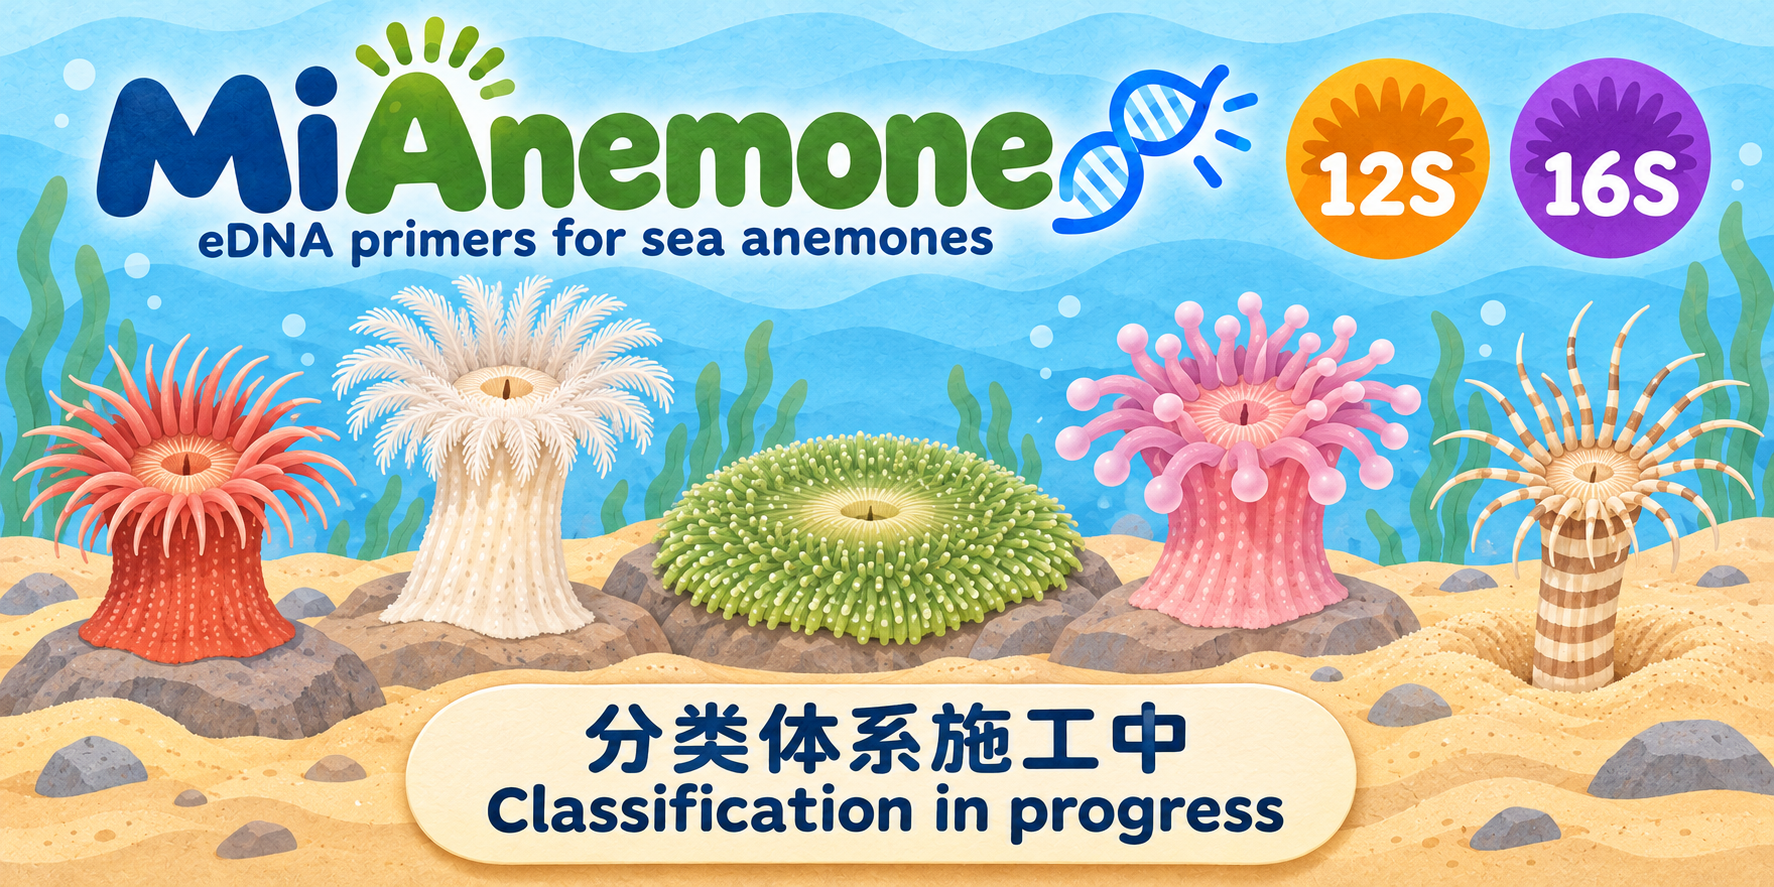
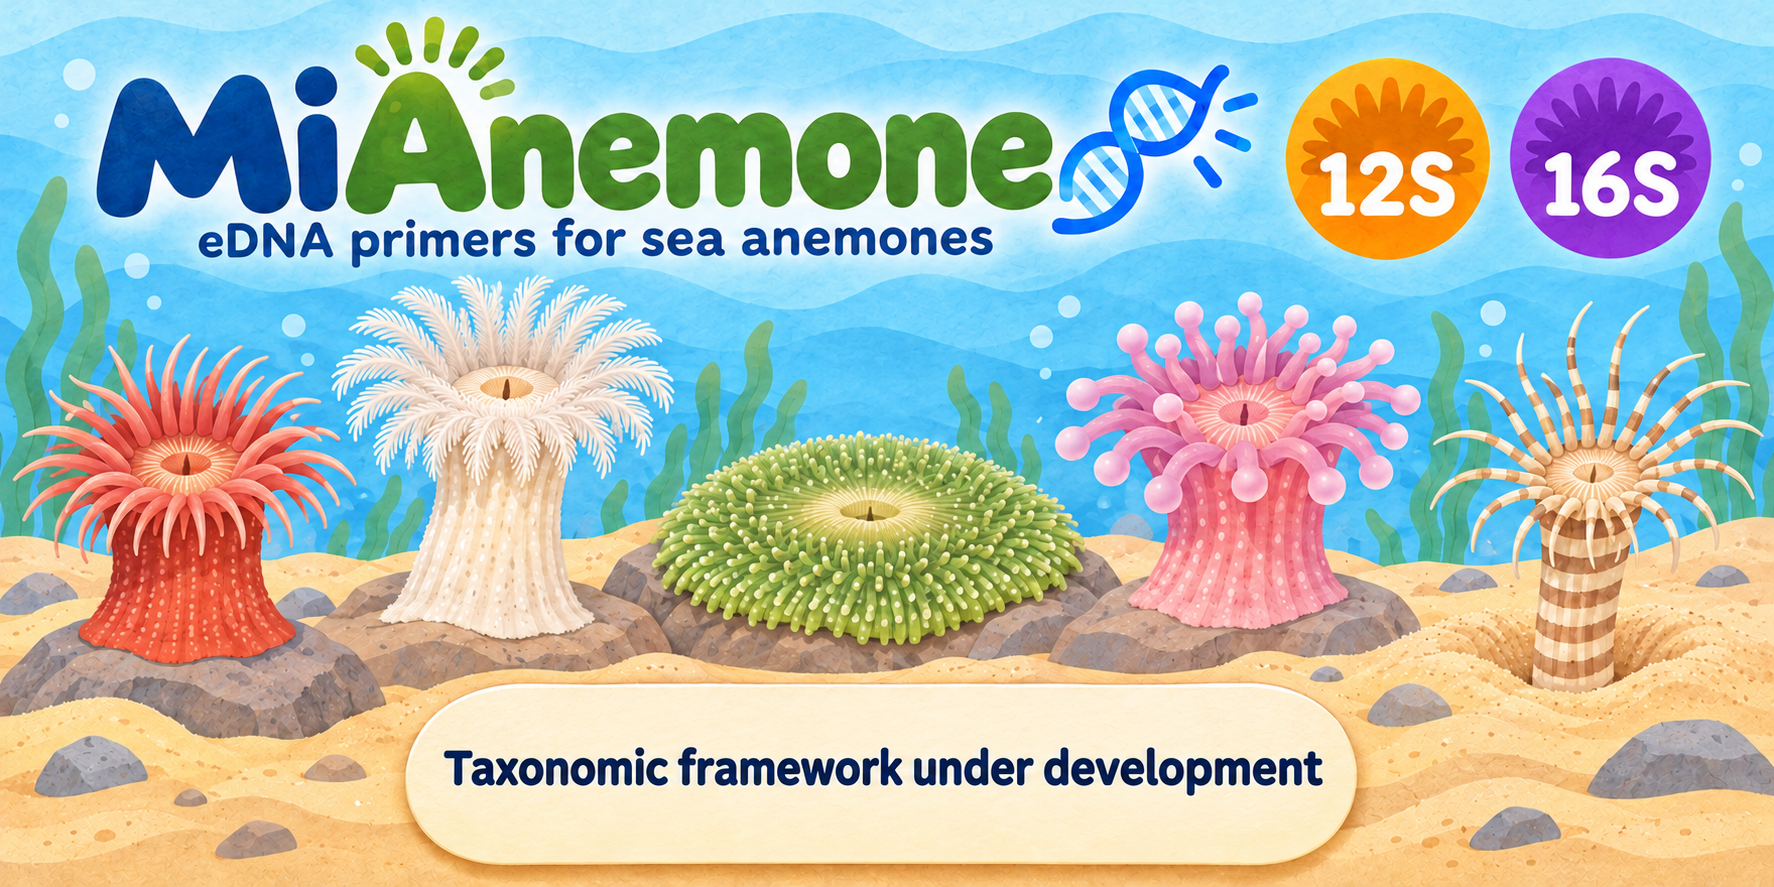
Present MiAnemone as a bilingual research article and clarify taxonomy status

diff --git a/README.en.md b/README.en.md
@@ -1,20 +1,20 @@
-![MiAnemone 12S and 16S eDNA primers for sea anemones. Classification in progress](figures/MiAnemone_overview.png)
+![MiAnemone 12S and 16S eDNA primers for sea anemones. Taxonomic framework under development](figures/MiAnemone_overview.png)
 
-# MiAnemone · Mitochondrial 12S and 16S eDNA primers for sea anemones
+# MiAnemone, a set of universal PCR primers for metabarcoding environmental DNA from sea anemones
+
+**Fei Xia**
 
 [中文](README.md) | English
 
-MiAnemone contains 22 computationally evaluated primer pairs for Actiniaria. Each marker has five size windows (XS–XL), each with an ordinary and a degenerate (D) pair sharing both binding sites. The 16S panel also includes H and HD at the original design site. Oligos are reported in synthesis orientation (5′→3′) and identified by marker, pair and direction. [Primer FASTA](primers.fasta) · [Sequences, coordinates and results](all_results.csv)
+## Abstract
 
-## Primer selection
+We designed and evaluated 22 primer pairs in silico for mitochondrial 12S and 16S rRNA genes in Actiniaria. In a 12S reference library of 250 sea anemone species, MD covered 224 of 242 evaluable species and matched both binding sites exactly in 208. In a 16S library of 265 species, LD covered 231 of 258 evaluable species, with 180 exact matches. Under strict Watson–Crick pairing, MD and LD matched nine and zero records in their respective background panels.
 
-**12S MD** covered 224 of 242 evaluable species (92.6%) with 208 exact matches (86.0%). Ordinary M covered 220 with 198 exact matches. Both hit nine background species under the strict Watson–Crick model. For a shorter product, SD covers 195/246 at 197 bp with zero hits across the four background models.
+## Introduction
 
-**16S LD** covered 231/258 species (89.5%) with 180 exact matches (69.8%), compared with 138 and 106 for ordinary L. LD hit zero and three background records under the two strict models, increasing to 46 and ten under the relaxed models.
+Primer design for environmental DNA metabarcoding must account for amplicon length, variation at binding sites among target species and matches to related non-target taxa. We drew on the conserved-flank design of MiFish and the use of degenerate sites in Anth-28S (Miya et al., 2015, McCartin et al., 2024). We compared ordinary and degenerate primers at identical coordinates in five size windows (XS–XL) per mitochondrial marker to determine how gains in coverage affect exact matching and background hits.
 
-High coverage can coincide with few exact matches. For example, 12S XSD covered 230/245 species with zero exact matches. Ordinary and D oligos were selected independently at the same coordinates.
-
-## Methods and table key
+## Materials and methods
 
 Each target panel contains one GenBank sequence per named species. All coordinates are 1-based, inclusive positions in the respective ungapped mitochondrial rRNA gene of *Metridium senile* (NC_000933.1). Ordinary primers were selected from observed templates and consensus motifs following the conserved-flank approach of MiFish. D candidates incorporate lineage variation following the Anth-28S approach, with at most eight variants per oligo and ambiguity confined to its 3′ half.
 
@@ -22,7 +22,9 @@ Evaluable references span both sites and have no ambiguous nucleotides in their 
 
 Background scans allow 0–1,000 internal bases. Strict WC and G–T models allow two mismatches per oligo and require compatibility across its last three bases. Relaxed WC and G–T models allow three and two mismatches respectively without a terminal constraint. The selection thresholds were at most ten hits per strict model and 50 per relaxed model. Each table cell lists **ordinary / D** and each background entry lists **WC,G–T**. Each window has its own evaluable denominator.
 
-## 12S
+## Results
+
+### 12S
 
 ![12S binding positions](figures/12S_binding.svg)
 
@@ -38,7 +40,7 @@ The panel contains 250 target species and 322 other cnidarian species.
 
 [Per-species results](12S/species_results.csv) · [Background hits](12S/background_hits.csv) · [Coordinates](12S/coordinates.csv) · [Insert uniqueness](12S/barcode_identity.csv)
 
-## 16S
+### 16S
 
 ![16S binding positions including H and HD](figures/16S_binding.svg)
 
@@ -57,13 +59,21 @@ H and HD occupy the original design site (F 1497–1518, R 1809–1830). HD cove
 
 [Per-species results](16S/species_results.csv) · [Background hits](16S/background_hits.csv) · [Coordinates](16S/coordinate_check.csv) · [Insert uniqueness](16S/insert_resolution.csv) · [16S sequences including H and HD](16S/primers.fasta)
 
-## Reproduction and citation
+## Discussion
 
-Each marker directory includes the reference sequences, target alignment and accession panels. From the repository root, run `python3 scripts/binding_positions.py` to redraw the figures. Run `python3 scripts/verify.py` with Biopython installed to check per-record outcomes against both panels. There were 8,940 checks for 12S and 45,780 for 16S. [12S validation](12S/validation.json) · [16S validation](16S/validation.json)
+12S MD yielded the most exact matches among the 12S pairs. Compared with ordinary M, it covered four additional species and provided ten additional exact matches with the same strict background count. Where a shorter amplicon and fewer background hits are priorities, the 197 bp SD pair covered 195/246 species with zero hits in all four background models. For 16S, LD covered 93 more species than ordinary L, while relaxed WC hits increased from seven to 46.
 
-Fei Xia. [Citation](CITATION.cff) · [Copyright and permissions](COPYRIGHT.md)
+Shorter windows illustrate the distinction between coverage and exact matching. 12S XSD covered 230/245 species with zero exact matches. For 16S, XSD covered 58 more species than XS, but exact matches fell from 132 to one. Ordinary and D sequences were selected independently at each site, so both metrics matter when choosing a pair. Comparisons across windows also depend on how many references span both sites, particularly for the sparsely represented 16S windows. These results describe predicted template compatibility. Amplification efficiency in environmental samples remains to be measured.
+
+## Data availability and reproducibility
+
+Oligos are reported in synthesis orientation (5′→3′) with identifiers for gene, pair and direction, for example `12S_MD_F`. The full results table includes sequences, binding coordinates and background counts. [Primer FASTA](primers.fasta) · [Complete results](all_results.csv)
+
+Each marker directory contains target and background references, accession panels and the target alignment. With Biopython installed, run `python3 scripts/verify.py` from the repository root to verify hits, and `python3 scripts/binding_positions.py` to redraw the binding maps. All 8,940 checks for 12S and 45,780 checks for 16S agreed with the independent implementation. [12S validation](12S/validation.json) · [16S validation](16S/validation.json)
+
+[Citation](CITATION.cff) · [Copyright and permissions](COPYRIGHT.md)
 
 ## References
 
-1. Miya et al. (2015). MiFish, a set of universal PCR primers for metabarcoding environmental DNA from fishes. [Royal Society Open Science](https://doi.org/10.1098/rsos.150088)
-2. Anth-28S primer design for coral metabarcoding. [PeerJ](https://doi.org/10.7717/peerj.18607)
+1. Miya M et al. (2015). MiFish, a set of universal PCR primers for metabarcoding environmental DNA from fishes: detection of more than 230 subtropical marine species. *Royal Society Open Science*, 2, 150088. [DOI](https://doi.org/10.1098/rsos.150088)
+2. McCartin L et al. (2024). Nuclear eDNA metabarcoding primers for anthozoan coral biodiversity assessment. *PeerJ*, 12, e18607. [DOI](https://doi.org/10.7717/peerj.18607)

diff --git a/README.md b/README.md
@@ -1,20 +1,22 @@
-![MiAnemone 海葵目 12S 与 16S eDNA 引物概览，分类体系施工中](figures/MiAnemone_overview.png)
+![MiAnemone 海葵目 12S 与 16S eDNA 引物概览，分类框架正在完善](figures/MiAnemone_overview.png)
 
-# MiAnemone · 海葵目线粒体 12S 与 16S eDNA 引物
+# MiAnemone, a set of universal PCR primers for metabarcoding environmental DNA from sea anemones
+
+*MiAnemone，一组用于海葵环境 DNA 宏条形码分析的通用 PCR 引物*
+
+**Fei Xia**
 
 [English](README.en.md) | 中文
 
-本项目比较海葵目（Actiniaria）两个线粒体标记的五档引物窗口，并收录 16S 原位点的 H 和 HD，共 22 对。每档保留一对普通引物及一对同坐标简并引物（D）。合并 FASTA 的序列名带基因前缀，例如 `12S_MD_F`，所有序列均按合成方向 5′→3′ 给出。
+## 摘要
 
-[候选引物 FASTA](primers.fasta) · [全部结果与坐标 CSV](all_results.csv)
+本研究针对海葵目（Actiniaria）的线粒体 12S 和 16S rRNA 基因设计并计算评估了 22 对引物。在 250 种海葵的 12S 参考库中，MD 覆盖 224/242 个可评价物种，208 个物种的双端均完全匹配。在 265 种海葵的 16S 参考库中，LD 覆盖 231/258 个可评价物种，其中 180 个双端完全匹配。严格 Watson–Crick 模型下，两者在各自背景库中分别命中 9 条和 0 条记录。
 
-## 候选选择
+## 引言
 
-- **12S MD** 的双端完全匹配最多。242 个可评价物种中覆盖 224 个（92.6%），完全匹配 208 个（86.0%）。普通 M 分别为 220 和 198 个。二者在严格 WC 模型下均命中 9 个背景物种。需要更短且对当前背景命中少的窗口时，12S SD 的跨度为 197 bp，覆盖 195/246，严格与宽松背景均为零。
-- **16S LD** 在 258 个可评价物种中覆盖 231 个（89.5%），完全匹配 180 个（69.8%）。同坐标普通 L 分别为 138 和 106 个。LD 的严格 WC、GT 背景命中分别为 0 和 3 条，宽松条件下增至 46 和 10 条。
-- **短窗口的权衡**尤其明显。12S XSD 覆盖 230/245，但双端完全匹配为 0。16S XSD 相比普通 XS 多覆盖 58 个物种，但完全匹配由 132 个降至 1 个。两种方案独立选序，D 只表示存在简并位点。
+环境 DNA 宏条形码设计需要同时考虑扩增子长度、目标物种间的结合位点变异以及近缘非目标类群的匹配。MiFish 的保守侧翼设计和 Anth-28S 的简并位点设计为本研究提供了两条途径（Miya 等，2015；McCartin 等，2024）。本研究在两个线粒体基因上分别设置 XS 至 XL 五档窗口，通过比较同一位置的普通与简并引物，考察覆盖增加时完全匹配和背景命中如何变化。
 
-## 计算方法
+## 材料与方法
 
 每个基因按 GenBank 具名物种各保留一条目标参考序列。结合位置采用 *Metridium senile* NC_000933.1 对应基因的无缺口坐标，从 1 起算，包含两端。同一窗口的普通与 D 共享 F、R 的四个端点。普通方案依照 MiFish 的保守侧翼思路，从实际模板和共识序列选配；D 方案依照 Anth-28S 的思路补偿谱系变异，每条引物简并度至多为 8，简并位点限于 3′ 半段。
 
@@ -22,7 +24,9 @@
 
 背景搜索允许两引物之间相距 0–1000 bp。严格模型沿用每端至多两个错配和末三位兼容的规则，分别计算 Watson–Crick 配对（WC）及允许 G–T 配对（GT）的命中。宽松模型取消末端限制，分别允许 WC 每端三个错配和 GT 每端两个错配。候选通过条件为两个严格计数各 ≤10、两个宽松计数各 ≤50。下表每格按**普通 / D**排列，背景每组依次列出 **WC,GT** 的记录数。所有命中均为计算预测。
 
-## 12S
+## 结果
+
+### 12S
 
 ![12S 五档引物在参考基因上的结合位置](figures/12S_binding.svg)
 
@@ -38,7 +42,7 @@
 
 [逐物种结果](12S/species_results.csv) · [非目标命中明细](12S/background_hits.csv) · [参考坐标](12S/coordinates.csv) · [内部条码唯一性](12S/barcode_identity.csv)
 
-## 16S
+### 16S
 
 ![16S 五档引物及 H 和 HD 的结合位置](figures/16S_binding.svg)
 
@@ -57,17 +61,21 @@ H 和 HD 共用原位点（F 1497–1518，R 1809–1830）。HD 比 H 多覆盖
 
 [逐物种结果](16S/species_results.csv) · [非目标命中明细](16S/background_hits.csv) · [参考坐标](16S/coordinate_check.csv) · [内部条码唯一性](16S/insert_resolution.csv) · [含 H 和 HD 的 16S 序列](16S/primers.fasta)
 
-## 复核
+## 讨论
 
-独立实现逐条比对原始目标与背景上的成对搜索结果。12S 共 8,940 项、16S 共 45,780 项，均无差异。整合时另以逐物种和逐背景明细重算各引物计数，并核对普通与 D 的结合端点、FASTA 序列和结果表。各基因目录含实际使用的目标与背景 FASTA、分类面板和目标比对文件。
+12S MD 在双端完全匹配方面表现最好。与同位点普通 M 相比，它多覆盖 4 个物种，多完全匹配 10 个，严格背景命中数相同。若目标是更短的扩增子和更少的非目标命中，197 bp 的 SD 覆盖 195/246 个物种，在四个背景模型下均为零命中。16S LD 相比普通 L 多覆盖 93 个物种，但宽松 WC 背景命中从 7 条增加到 46 条。
 
-[12S 复核记录](12S/validation.json) · [16S 复核记录](16S/validation.json)
+短窗口并不总能兼顾两项指标。12S XSD 覆盖 230/245 个物种，却没有双端完全匹配；16S XSD 相比 XS 多覆盖 58 个物种，完全匹配数却从 132 降至 1。普通与 D 在同一位置独立选序，选择时应同时看两项指标。跨窗口比较还应考虑参考序列是否跨越两端，尤其是 16S 中可评价物种较少的窗口。这些结果描述计算预测的模板兼容性，实际样本中的扩增效率仍待测定。
 
-用 `python3 scripts/binding_positions.py` 从结果表重绘两张位置图；用 `python3 scripts/verify.py` 从参考序列复核命中。
+## 数据与复现
 
-作者：Fei Xia。 [著作权与使用声明](COPYRIGHT.md)
+引物序列按合成方向 5′→3′ 给出，名称含基因、引物对及方向，例如 `12S_MD_F`。逐对结果表含序列、参考坐标和背景计数。[引物 FASTA](primers.fasta) · [完整结果](all_results.csv)
+
+两个基因目录均包含目标与背景参考序列、物种名录及目标比对。安装 Biopython 后，在仓库根目录运行 `python3 scripts/verify.py` 可复核命中；运行 `python3 scripts/binding_positions.py` 可重绘位置图。独立复核中，12S 的 8,940 项与 16S 的 45,780 项检查均无差异。[12S 复核](12S/validation.json) · [16S 复核](16S/validation.json)
+
+[引用信息](CITATION.cff) · [著作权与使用声明](COPYRIGHT.md)
 
 ## 参考文献
 
-1. Miya et al. (2015). MiFish, a set of universal PCR primers for metabarcoding environmental DNA from fishes. [Royal Society Open Science](https://doi.org/10.1098/rsos.150088)
-2. Anth-28S 珊瑚 28S metabarcoding 引物设计研究。 [PeerJ](https://doi.org/10.7717/peerj.18607)
+1. Miya M et al. (2015). MiFish, a set of universal PCR primers for metabarcoding environmental DNA from fishes: detection of more than 230 subtropical marine species. *Royal Society Open Science*, 2, 150088. [DOI](https://doi.org/10.1098/rsos.150088)
+2. McCartin L et al. (2024). Nuclear eDNA metabarcoding primers for anthozoan coral biodiversity assessment. *PeerJ*, 12, e18607. [DOI](https://doi.org/10.7717/peerj.18607)
